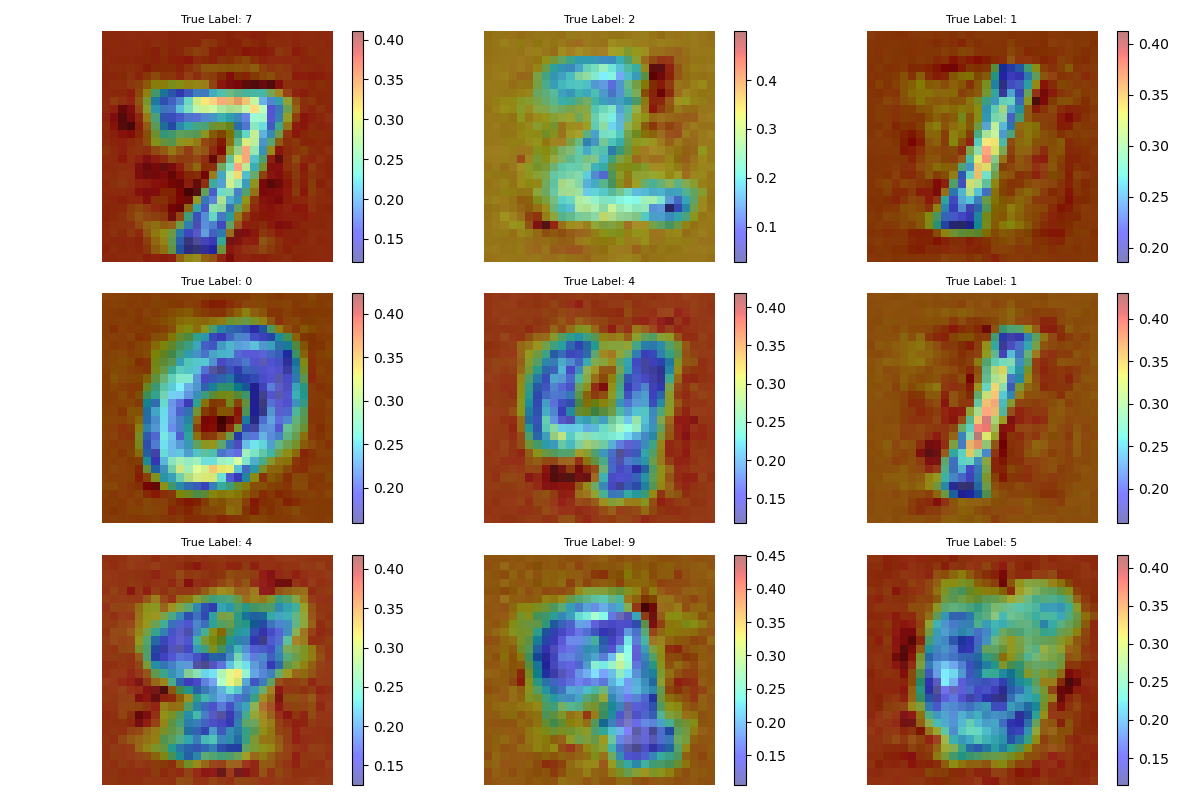
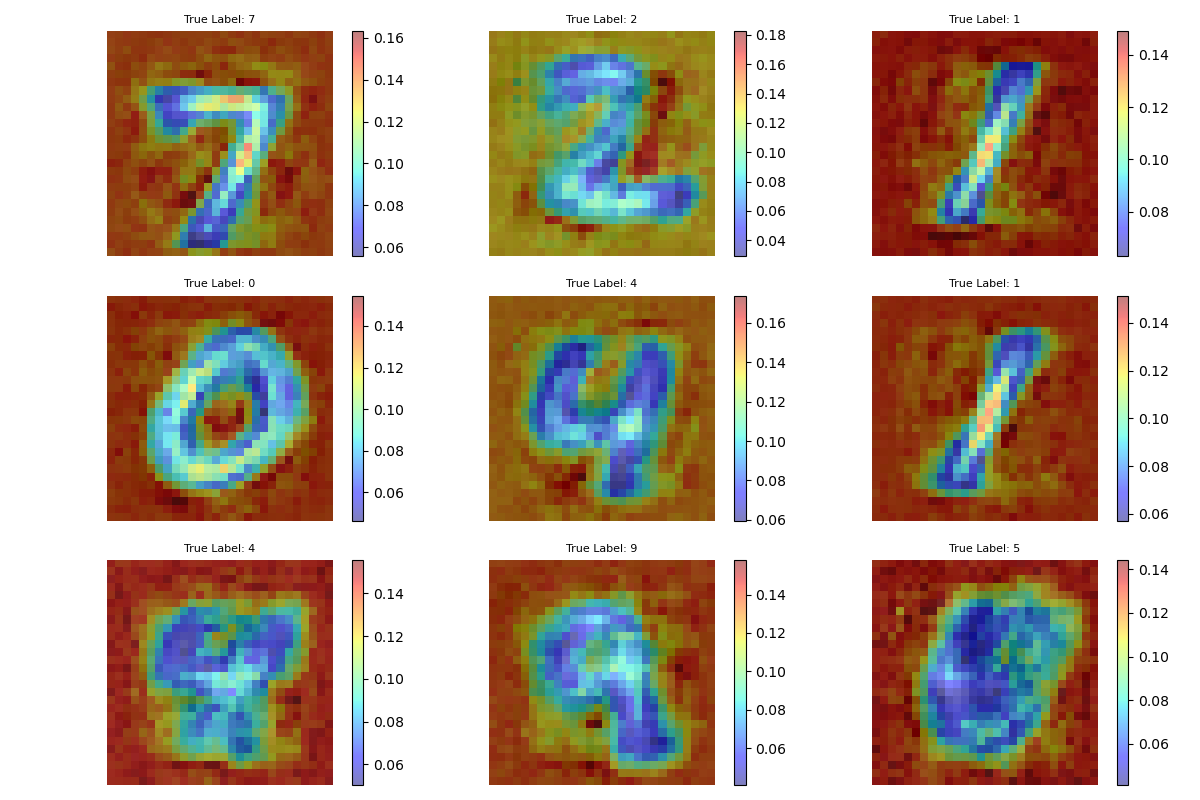
GVAE_V2_reverse v1

diff --git a/XAI/VAE_GAN_v2_reverse.py b/XAI/VAE_GAN_v2_reverse.py
@@ -16,7 +16,7 @@ CNN model
 #|%%--%%| <45FbLi3jh9|vdkIA87H1I>
 
 
-os.chdir(os.path.abspath("./XAI"))
+os.chdir(os.path.abspath("/home/jack/Documents/PhD-research/XAI"))
 
 # Set device
 device = torch.device("cuda" if torch.cuda.is_available() else "cpu")
@@ -145,56 +145,56 @@ Define VAE model
 # |%%--%%| <lMC32SbEnu|GLMDo7DbS2>
 
 
+
 class Encoder(nn.Module):
-    def __init__(self, input_dim):
+    def __init__(self, z_dim):
         super().__init__()
-        # Linear layer to expand 10 features to 64*7*7
-        self.fc = nn.Linear(input_dim, 64 * 7 * 7)
-        # First transposed convolution: 7x7 -> 14x14
-        self.deconv1 = nn.ConvTranspose2d(64, 32, kernel_size=4, stride=2, padding=1)
-        # Second transposed convolution: 14x14 -> 28x28
-        self.deconv2 = nn.ConvTranspose2d(32, 2, kernel_size=4, stride=2, padding=1)
-        # Activation
-        self.leaky_relu = nn.LeakyReLU()
+        # Convolutional layers to downsample the 28x28 image
+        self.conv = nn.Sequential(
+            nn.Conv2d(1, 32, kernel_size=3, stride=2, padding=1),  # Output: (batch, 32, 14, 14)
+            nn.LeakyReLU(),
+            nn.Conv2d(32, 64, kernel_size=3, stride=2, padding=1),  # Output: (batch, 64, 7, 7)
+            nn.LeakyReLU(),
+        )
+        # Flatten the feature map
+        self.flatten = nn.Flatten()  # Output: (batch, 64*7*7)
+        # Fully connected layers to produce mu and logvar
+        self.fc_mu = nn.Linear(64 * 7 * 7, z_dim)      # Output: (batch, z_dim)
+        self.fc_logvar = nn.Linear(64 * 7 * 7, z_dim)  # Output: (batch, z_dim)
 
     def forward(self, x):
-        # Input shape: (batch, 10)
-        x = self.fc(x)  # Shape: (batch, 64*7*7)
-        x = x.view(-1, 64, 7, 7)  # Reshape to (batch, 64, 7, 7)
-        x = self.leaky_relu(self.deconv1(x))  # Shape: (batch, 32, 14, 14)
-        x = self.deconv2(x)  # Shape: (batch, 1, 28, 28)
-        mu, logvar = x.chunk(2, dim=1)
+        # Input shape: (batch, 1, 28, 28)
+        x = self.conv(x)        # Shape: (batch, 64, 7, 7)
+        x = self.flatten(x)     # Shape: (batch, 64*7*7)
+        mu = self.fc_mu(x)      # Shape: (batch, z_dim)
+        logvar = self.fc_logvar(x)  # Shape: (batch, z_dim)
         return mu, logvar
 
-
 class Decoder(nn.Module):
-    def __init__(self):
+    def __init__(self, z_dim):
         super().__init__()
-        self.conv = nn.Sequential(
-            nn.Conv2d(1, 32, 3, stride=2, padding=1),
-            nn.LeakyReLU(0.2),
-            nn.Conv2d(32, 32, 3, padding=1),
-            nn.LeakyReLU(0.2),
-            nn.Conv2d(32, 64, 3, stride=2, padding=1),
-            nn.LeakyReLU(0.2),
-            nn.Conv2d(64, 64, 3, padding=1),
-            nn.LeakyReLU(0.2),
+        # Fully connected layer to map z_dim to a feature map size
+        self.fc = nn.Linear(z_dim, 64 * 7 * 7)  # Output: (batch, 64*7*7)
+        # Transposed convolutional layers to upsample to 28x28
+        self.deconv = nn.Sequential(
+            nn.ConvTranspose2d(64, 32, kernel_size=4, stride=2, padding=1),  # Output: (batch, 32, 14, 14)
+            nn.LeakyReLU(),
+            nn.ConvTranspose2d(32, 1, kernel_size=4, stride=2, padding=1),   # Output: (batch, 1, 28, 28)
+            nn.Sigmoid()  # Output range [0,1], suitable for normalized images like MNIST
         )
-        self.flatten = nn.Flatten()
-        self.fc = nn.Linear(64 * 7 * 7, Config.num_classes)
 
-    def forward(self, x):
-        x = self.conv(x)
-        x = self.flatten(x)
-        x = self.fc(x)
+    def forward(self, z):
+        # Input shape: (batch, z_dim)
+        x = self.fc(z)              # Shape: (batch, 64*7*7)
+        x = x.view(-1, 64, 7, 7)    # Shape: (batch, 64, 7, 7)
+        x = self.deconv(x)          # Shape: (batch, 1, 28, 28)
         return x
 
-
 class ClusterVAE(nn.Module):
-    def __init__(self, input_dim):
+    def __init__(self, z_dim):
         super().__init__()
-        self.encoder = Encoder(input_dim)
-        self.decoder = Decoder()
+        self.encoder = Encoder(z_dim)
+        self.decoder = Decoder(z_dim)
 
     def reparameterize(self, mean, logvar):
         std = torch.exp(0.5 * logvar)
@@ -233,6 +233,7 @@ class Critic(nn.Module):
         )
 
     def forward(self, x):
+        x = x.view(-1, 784)
         x = self.main(x)
         x = x.view(-1, 1, 28, 28)
         return x
@@ -245,36 +246,29 @@ loss function
 # |%%--%%| <eqx0LfDGeH|83f6l2Dw3G>
 
 
-def loss_fn_vae(recon_x, x, z_mean, c, data):
-    recon_loss = F.mse_loss(recon_x, x)
+def loss_fn_vae(recon_x,  z_mean, z_logvar, data, model):
+    recon_loss = F.mse_loss(recon_x, data)
 
-    gaussian_loss = (z_mean - data) ** 2
-    gaussian_loss = c * gaussian_loss
-    gaussian_loss = gaussian_loss.sum(dim=(1, 2, 3))
-    gaussian_loss = gaussian_loss.mean()
+    model.eval()  # Ensure model is in eval mode (affects dropout, batchnorm, etc.)
+    with torch.no_grad():  # Prevent gradients from flowing through the main model
+        pred = model(data)
+
+    gaussian_loss = -0.5 * torch.mean(1 + z_logvar - ( z_mean - pred)**2 - z_logvar.exp())
 
     total_loss =  Config.lamb *recon_loss + gaussian_loss
     return total_loss
 
 
-def loss_fn_critic(x, z_mean, c, data, model):
-    model.eval()  # Ensure model is in eval mode (affects dropout, batchnorm, etc.)
-    with torch.no_grad():  # Prevent gradients from flowing through the main model
-        perturbed_data = c * data
-        pred = model(perturbed_data)
+def loss_fn_critic( recon_x, z_mean,c, data, model):
 
-    critic_loss = F.mse_loss(pred, x)
+    recon_loss = F.mse_loss(recon_x *c , data *c)
+    z_loss = F.mse_loss(z_mean, model(data))
+    cat_sum = torch.sum(c, dim=(1, 2, 3)).mean()
+    
 
-    gaussian_loss = (z_mean - data) ** 2
-    gaussian_loss = c * gaussian_loss
-    gaussian_loss = gaussian_loss.sum(dim=(1, 2, 3))
-    gaussian_loss = gaussian_loss.mean()
+    total_loss = recon_loss * Config.lamb * z_loss
 
-    cat_loss = c * torch.log(c + 1e-8)
-    cat_loss = cat_loss.sum(dim=(1, 2, 3)).mean()
-
-    total_loss = Config.lamb *critic_loss +  cat_loss + gaussian_loss
-    # total_loss = cat_loss + gaussian_loss
+    # total_loss = recon_loss +z_loss + cat_sum
 
     return total_loss
 
@@ -286,7 +280,7 @@ Training
 # |%%--%%| <iRScmHTlMW|tQqyQelokQ>
 
 c_vae = ClusterVAE(Config.num_classes).to(Config.device)
-critic = Critic(Config.num_classes).to(Config.device)
+critic = Critic(Config.img_dim * Config.img_dim).to(Config.device)
 
 vae_optimizer = optim.Adam(c_vae.parameters(), lr=learning_rate)
 critic_optimizer = optim.Adam(critic.parameters(), lr=learning_rate)
@@ -315,12 +309,8 @@ for epoch in range(Config.epochs):
         with torch.no_grad():
             x = model(data)
             _, pred_base = x.max(1)
-            c = critic(x)
-            if torch.isnan(c).any():
-                print("NaN detected in critic output c. Stopping training.")
-                # break
 
-        output = c_vae(x)
+        output = c_vae(data)
         # output['z_mean'] = gumbel_softmax(output['z_mean'], Config.temperature, hard=True)
         # temperature = max(Config.temperature * (1 - Config.anneal_rate), Config.sample_std)
         recon_x, z, z_mean, z_logvar = (
@@ -329,7 +319,7 @@ for epoch in range(Config.epochs):
             output["z_mean"],
             output["z_logvar"],
         )
-        loss_vae = loss_fn_vae(output["recon"], x, output["z_mean"], c, data)
+        loss_vae = loss_fn_vae(recon_x, z_mean, z_logvar, data, model)
         total_loss_vae += loss_vae.item()
 
         loss_vae.backward()
@@ -341,14 +331,20 @@ for epoch in range(Config.epochs):
 
         critic_optimizer.zero_grad()
         # c: output of the critic from x (x was computed earlier using model(data))
-        c = critic(x)
+        c = critic(data)
 
         # Detach the VAE output so that gradients do NOT flow into c_vae.
         with torch.no_grad():
-            output = c_vae(x)
+            output = c_vae(c*data)
+            recon_x, z, z_mean, z_logvar = (
+                output["recon"],
+                output["z"],
+                output["z_mean"],
+                output["z_logvar"],
+            )
 
         # Compute the critic loss using the detached z_mean from c_vae.
-        loss_critic = loss_fn_critic(x, output["z_mean"], c, data, model)
+        loss_critic = loss_fn_critic(recon_x, z_mean, c, data, model)
 
         loss_critic.backward()
         critic_optimizer.step()
